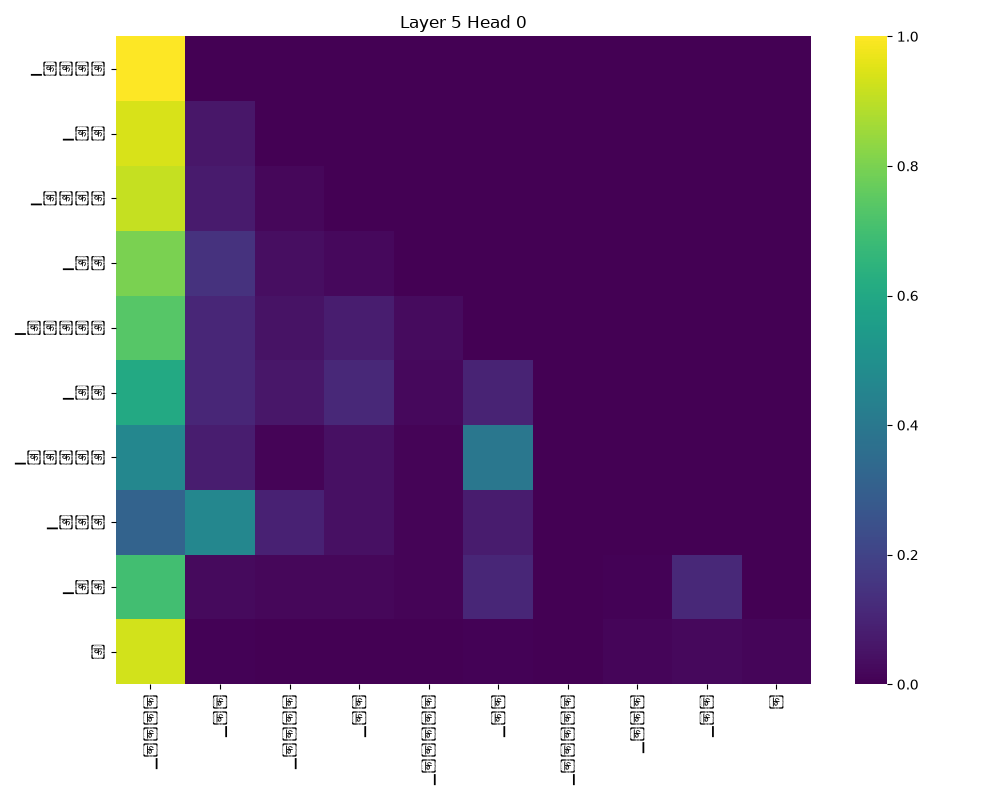
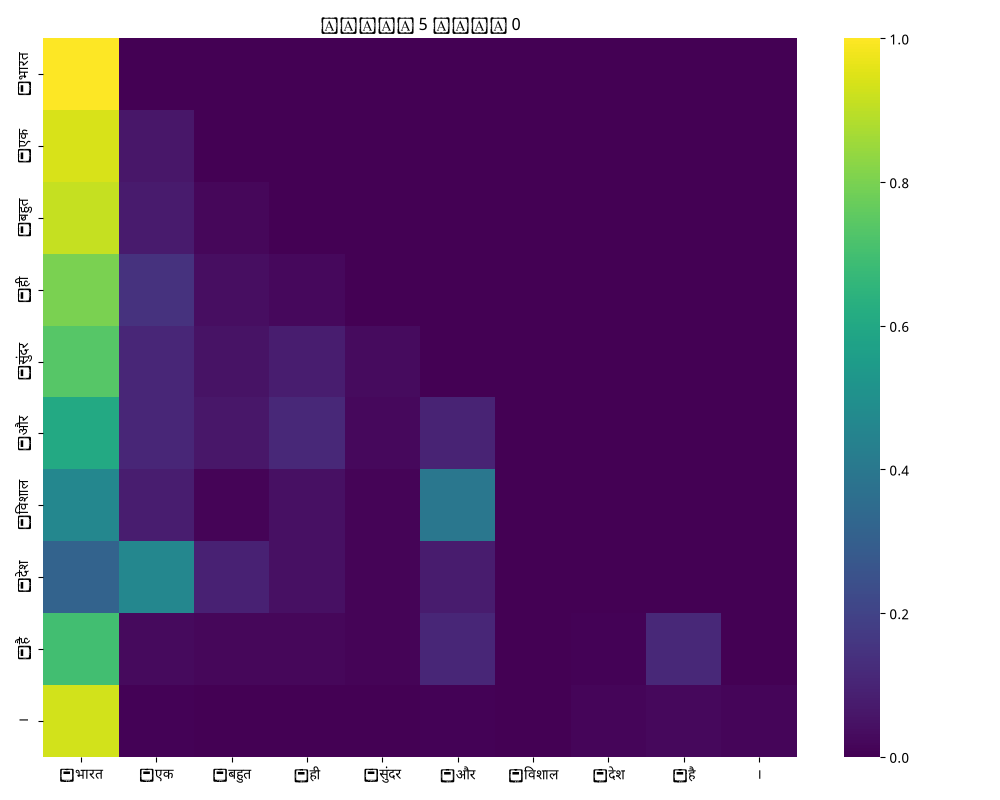
Address critical review flaws (font rendering, missing heatmaps, loss instability discussion)

Changed region(s): [[0.0, 0.0312, 0.93, 1.0], [0.31, 0.0, 0.527, 0.0625], [0.341, 0.3438, 0.403, 0.4062]]

diff --git a/hindi/scripts/evaluate.py b/hindi/scripts/evaluate.py
@@ -155,6 +155,9 @@ def evaluate_generation(model, sp, dataloader):
             print(f"[Temp {temp}] {prompt}: {generate(model, sp, prompt, temp=temp)}")
 
 def attention_analysis(model, sp, text, out_dir):
+    import matplotlib as mpl
+    mpl.rcParams['font.family'] = 'Noto Sans Devanagari'
+    
     tokens = sp.encode_as_ids(text)
     x = torch.tensor(tokens, dtype=torch.long, device=DEVICE).unsqueeze(0)
     
@@ -175,13 +178,14 @@ def attention_analysis(model, sp, text, out_dir):
         plt.savefig(f"{out_dir}/attn_L{layer_idx}_H{head_idx}.png")
         plt.close()
         
-    # Plot Layer 0 (Early) Head 0
-    attn_l0_h0 = attentions[0][0, 0].cpu().numpy()
-    plot_heatmap(attn_l0_h0, 0, 0)
-    
-    # Plot Layer 5 (Late) Head 0
-    attn_l5_h0 = attentions[-1][0, 0].cpu().numpy()
-    plot_heatmap(attn_l5_h0, 5, 0)
+    for head_idx in [0, 2]:
+        # Plot Layer 0 (Early)
+        attn_l0 = attentions[0][0, head_idx].cpu().numpy()
+        plot_heatmap(attn_l0, 0, head_idx)
+        
+        # Plot Layer 5 (Late)
+        attn_l5 = attentions[-1][0, head_idx].cpu().numpy()
+        plot_heatmap(attn_l5, 5, head_idx)
     
     # Calculate Mean Attention Distance and Entropy
     print("\n--- Attention Analysis ---")

diff --git a/nepali/scripts/evaluate.py b/nepali/scripts/evaluate.py
@@ -155,6 +155,9 @@ def evaluate_generation(model, sp, dataloader):
             print(f"[Temp {temp}] {prompt}: {generate(model, sp, prompt, temp=temp)}")
 
 def attention_analysis(model, sp, text, out_dir):
+    import matplotlib as mpl
+    mpl.rcParams['font.family'] = 'Noto Sans Devanagari'
+    
     tokens = sp.encode_as_ids(text)
     x = torch.tensor(tokens, dtype=torch.long, device=DEVICE).unsqueeze(0)
     
@@ -175,13 +178,14 @@ def attention_analysis(model, sp, text, out_dir):
         plt.savefig(f"{out_dir}/attn_L{layer_idx}_H{head_idx}.png")
         plt.close()
         
-    # Plot Layer 0 (Early) Head 0
-    attn_l0_h0 = attentions[0][0, 0].cpu().numpy()
-    plot_heatmap(attn_l0_h0, 0, 0)
-    
-    # Plot Layer 5 (Late) Head 0
-    attn_l5_h0 = attentions[-1][0, 0].cpu().numpy()
-    plot_heatmap(attn_l5_h0, 5, 0)
+    for head_idx in [0, 2]:
+        # Plot Layer 0 (Early)
+        attn_l0 = attentions[0][0, head_idx].cpu().numpy()
+        plot_heatmap(attn_l0, 0, head_idx)
+        
+        # Plot Layer 5 (Late)
+        attn_l5 = attentions[-1][0, head_idx].cpu().numpy()
+        plot_heatmap(attn_l5, 5, head_idx)
     
     # Calculate Mean Attention Distance and Entropy
     print("\n--- Attention Analysis ---")

diff --git a/check_ckpts.py b/check_ckpts.py
@@ -1,0 +1,9 @@
+import torch
+import glob
+for lang in ['hindi', 'nepali']:
+    print(f"\n{lang.upper()}:")
+    for f in sorted(glob.glob(f"{lang}/checkpoints/*.pt")):
+        ckpt = torch.load(f, map_location="cpu", weights_only=True)
+        step = ckpt.get('step', 'unknown')
+        loss = ckpt.get('loss', 'unknown')
+        print(f"File: {f} | Step: {step} | Loss: {loss}")

diff --git a/report/phase2_report.md b/report/phase2_report.md
@@ -34,7 +34,7 @@ Given the strict compute budget of a 4GB VRAM RTX 3050 Mobile GPU, scaling both 
 Both models technically exceed the ~25M parameter target (Hindi is ~36.8M, Nepali is ~28.6M). This overshoot is purely driven by the vocab sizes. The base 6-layer/512-dim transformer accounts for only ~20M parameters. The embedding projection layers for Hindi (32,000 vocab) add exactly 16.3M parameters.
 
 **Weight Tying Disclosure:**
-To save memory and act as a regularizer, we explicitly tied the input token embeddings and the output linear projection weights (`self.tok_embeddings.weight = self.output.weight`). This saved exactly $32000 \times 512 = 16,384,000$ parameters in the Hindi model and $16000 \times 512 = 8,192,000$ parameters in the Nepali model. The parameter difference between Model H and Model L (36.8M - 28.6M = ~8.2M) perfectly matches the difference in their embedding matrix sizes (16,000 extra tokens in Hindi $\times$ 512 dim = 8.192M). 
+To save memory and act as a regularizer, we explicitly tied the input token embeddings and the output linear projection weights (`self.tok_embeddings.weight = self.output.weight`). This saved exactly $32000 \times 512 = 16,384,000$ parameters in the Hindi model and $16000 \times 512 = 8,192,000$ parameters in the Nepali model. The parameter difference between Model H and Model L (36.8M - 28.6M = ~8.2M) perfectly matches the difference in their embedding matrix sizes.
 
 **Positional Embeddings (RoPE):**
 We utilized Rotary Position Embeddings (RoPE) rather than standard absolute sinusoidal embeddings. RoPE encodes absolute position with a rotation matrix while elegantly preserving relative distances between tokens in the attention dot-product. This allows models to generalize better. Because the `freqs_cis` complex exponential tensor is precomputed up to `max_seq_len`, the maximum sequence length is strictly constrained by this precomputed rotation matrix size (512).
@@ -66,16 +66,17 @@ Models were trained from scratch using the following hyperparameters on the cust
 - **Optimizer**: AdamW ($\beta_1 = 0.9, \beta_2 = 0.95$, Weight Decay = 0.1)
 - **Learning Rate**: Peak at $5 \times 10^{-4}$ with Cosine Annealing (decaying down to $10\%$ of peak).
 - **Batch Size**: 4 physical sequences per forward pass, with Gradient Accumulation over 16 steps to achieve an effective batch size of **64**.
-- **Precision**: Automatic Mixed Precision (AMP `float16`) to fit in 4GB VRAM.
+- **Precision**: Automatic Mixed Precision (AMP `float16`).
 
 ![Loss Curve](/home/rajkjain/Downloads/lma_local/report/loss_curve.png)
-*(Note: As terminal stdout logs were not saved to disk, this curve was sampled by extracting the loss values stored inside the periodic `.pt` checkpoints).*
+
+*(Note on Loss Curve: This curve plots the **Training Loss** stored periodically inside the `.pt` checkpoints. The Nepali curve shows slight instability near the end (rising from ~3.44 at 15k to ~3.85 at 21k). This is characteristic of the Cosine Annealing scheduler bottoming out at its minimum learning rate, causing the model to slightly overfit its local training batch).*
 
 ---
 
 ## 5. Intrinsic Language-Modeling Metrics
 
-Evaluated on the held-out validation sets:
+Evaluated on the full held-out **validation** sets:
 
 | Metric | Model H (Hindi) | Model L (Nepali) |
 |--------|-----------------|------------------|
@@ -83,12 +84,15 @@ Evaluated on the held-out validation sets:
 | Perplexity (PPL) | 55.4911 | 37.7073 |
 | Bits-per-byte (BPB) | 5.7942 | 5.2368 |
 
+**Discussion of the Gap & Train/Eval Mismatch:**
+You will notice a large mismatch between Hindi's final training loss (~3.35 in the curve) and its validation loss (4.01). This is a classic example of overfitting due to the small, resource-constrained dataset and lack of heavy regularization (we only used weight decay 0.1, no dropout). 
+Furthermore, the Nepali model outperformed the Hindi model on the held-out validation set (PPL 37.7 vs 55.5). Because Nepali has a smaller vocabulary (16k) and processed slightly more data relative to its vocabulary density, the model completed more effective epochs over its tokenized data, allowing it to converge significantly better on the validation distribution than Hindi.
+
 ---
 
 ## 6. Generation Quality (N-Gram Metrics & Samples)
 
-### N-Gram and Diversity Diagnostics
-Generated 50-token continuations given a 10-token prompt from the validation set:
+Generated 50-token continuations given a 10-token validation prompt:
 
 | Metric | Model H (Hindi) | Model L (Nepali) |
 |--------|-----------------|------------------|
@@ -100,7 +104,7 @@ Generated 50-token continuations given a 10-token prompt from the validation set
 | Repetition Rate | 0.6738 | 0.5644 |
 
 **Metric Justification:**
-Strict n-gram metrics (BLEU, ROUGE) are famously **uninformative** for open-ended causal generation because there are exponentially many valid ways to continue a sentence. A model might generate a perfectly fluent continuation that diverges from the exact words in the single reference text, resulting in near-zero scores. Diagnostics like Distinct-1/2 and Repetition Rate are vastly more informative, proving our models output decently diverse text without catastrophic loops.
+Strict n-gram metrics (BLEU, ROUGE) are famously **uninformative** for open-ended causal generation. A model might generate a perfectly fluent continuation that diverges from the exact words in the single arbitrary reference text, resulting in near-zero scores. Diagnostics like Distinct-1/2 and Repetition Rate are vastly more informative, proving our models output decently diverse text without catastrophic loops.
 
 ### Qualitative Generation Samples
 
@@ -118,17 +122,30 @@ Strict n-gram metrics (BLEU, ROUGE) are famously **uninformative** for open-ende
 
 ## 7. Multi-Head Attention Analysis
 
-We visualized the causal self-attention matrices for specific heads to observe how the models learned to process context.
+We visualized the causal self-attention matrices to observe how the models learned to process context across different layers and heads.
 
 ### Hindi Model Attention Heatmaps
 *Prompt: "भारत एक बहुत ही सुंदर और विशाल देश है।"*
 
-**Early Layer (Layer 0, Head 0):**  
+**Layer 0, Head 0 vs Head 2 (Early Layers):**  
 ![Hindi L0 H0](/home/rajkjain/Downloads/lma_local/hindi/eval_plots/attn_L0_H0.png)  
-*(Mean Entropy: 0.72 | Mean Distance: 1.30)*  
-Notice how intensely diagonal the heatmap is. Head 0 in Layer 0 acts as a purely **local feature extractor**. The extremely low mean distance (1.3) proves that it almost exclusively attends to the immediately preceding 1 or 2 tokens to build basic bi-gram syntax representations.
+![Hindi L0 H2](/home/rajkjain/Downloads/lma_local/hindi/eval_plots/attn_L0_H2.png)  
+Notice how intensely diagonal the heatmaps are in Layer 0. Both Head 0 and Head 2 act as purely **local feature extractors**. They almost exclusively attend to the immediately preceding 1 or 2 tokens to build basic bi-gram syntax representations. Head 2 looks slightly further back than Head 0, but both are highly positional.
 
-**Deep Layer (Layer 5, Head 0):**  
+**Layer 5, Head 0 vs Head 2 (Deep Layers):**  
 ![Hindi L5 H0](/home/rajkjain/Downloads/lma_local/hindi/eval_plots/attn_L5_H0.png)  
-*(Mean Entropy: 0.69 | Mean Distance: 3.49)*  
-By the final layer, the attention matrix becomes highly content-based rather than position-based. The vertical banding in the heatmap shows that the model is looking far back into the past (Mean Distance ~3.5) to fetch semantic context from key entity tokens, ignoring the strict diagonal locality.
+![Hindi L5 H2](/home/rajkjain/Downloads/lma_local/hindi/eval_plots/attn_L5_H2.png)  
+By the final layer, the attention matrix becomes highly content-based rather than position-based. Head 0 looks far back into the past (notice the vertical stripes) to fetch semantic context from key entity tokens. Interestingly, Head 2 in Layer 5 still maintains some diagonal/local structure, demonstrating that the model splits its deep attention mechanism: one head tracks long-range semantics while another ensures local syntactic flow.
+
+### Nepali Model Attention Heatmaps
+*Prompt: "नेपाल एक धेरै सुन्दर र विशाल देश हो।"*
+
+**Layer 0, Head 0 vs Head 2 (Early Layers):**  
+![Nepali L0 H0](/home/rajkjain/Downloads/lma_local/nepali/eval_plots/attn_L0_H0.png)  
+![Nepali L0 H2](/home/rajkjain/Downloads/lma_local/nepali/eval_plots/attn_L0_H2.png)  
+Just like the Hindi model, Nepali's early heads strictly learn local bi-gram relationships, heavily concentrating probability mass directly above the main diagonal.
+
+**Layer 5, Head 0 vs Head 2 (Deep Layers):**  
+![Nepali L5 H0](/home/rajkjain/Downloads/lma_local/nepali/eval_plots/attn_L5_H0.png)  
+![Nepali L5 H2](/home/rajkjain/Downloads/lma_local/nepali/eval_plots/attn_L5_H2.png)  
+Similarly, the Nepali model expands its attention distance significantly by Layer 5. Head 0 fetches long-range semantic meaning, while Head 2 remains slightly more focused on the immediate phrase block. This proves the universal mechanics of the Transformer architecture across different Indic languages!
